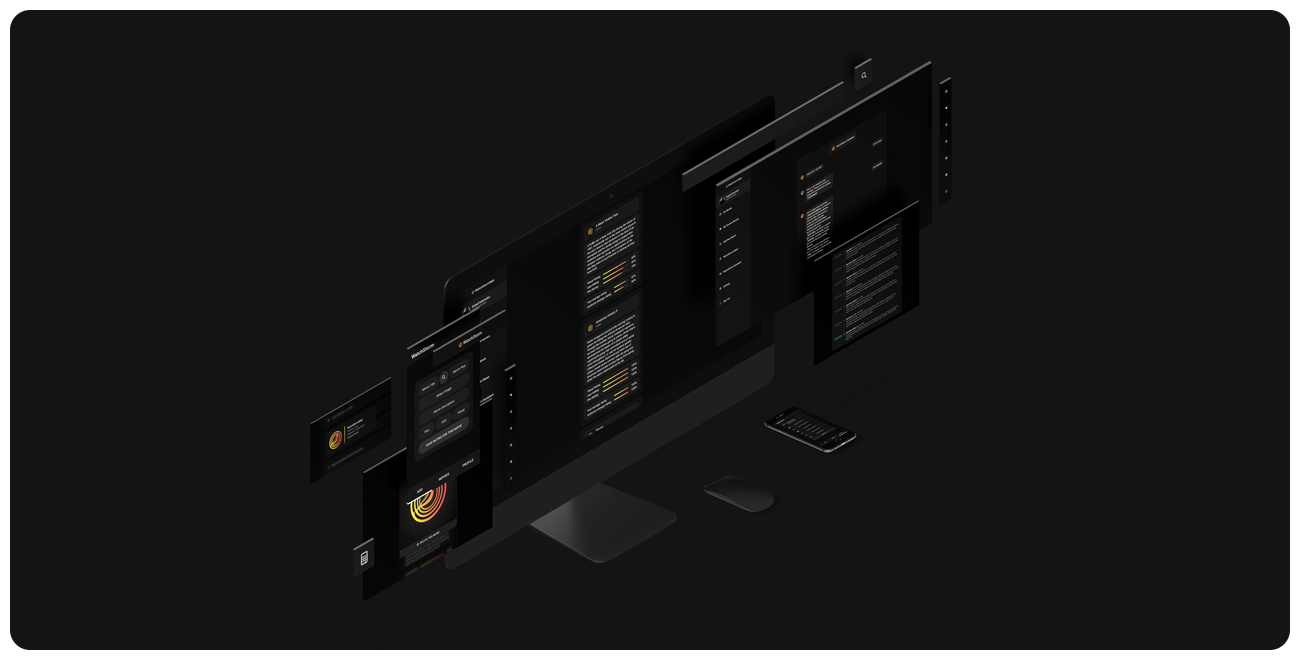
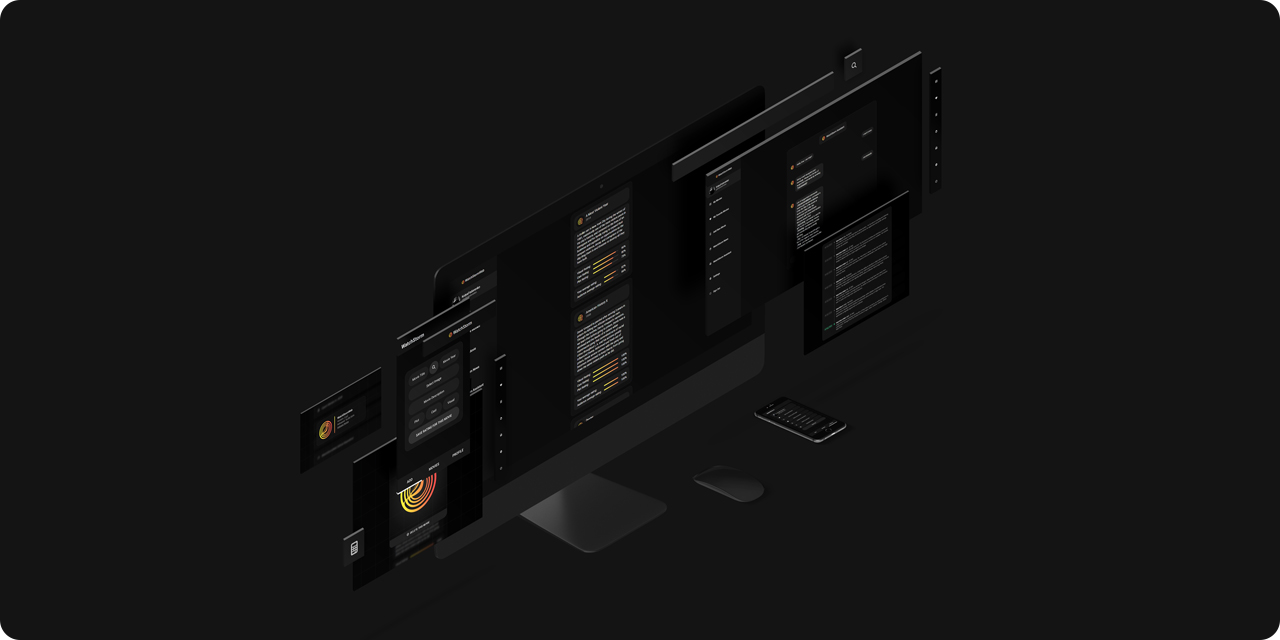
Updated preview picture in README.md

diff --git a/README.md b/README.md
@@ -1,4 +1,4 @@
-![WatchStormWeb Image](https://i.ibb.co/QdrRvGs/Watch-Storm-Web.jpg)
+![WatchStormWeb Image](https://raw.githubusercontent.com/KolyaFedorenko/WatchStormWeb/d1d5fb27e6a825435e3f7287fb7ccfee239a60f2/images/WatchStormWebImage.png)
 # WatchStormWeb
 ![GitHub Created At](https://img.shields.io/github/created-at/KolyaFedorenko/WatchStormWeb)
 ![GitHub code size in bytes](https://img.shields.io/github/languages/code-size/KolyaFedorenko/WatchStormWeb?color=brighteen)
